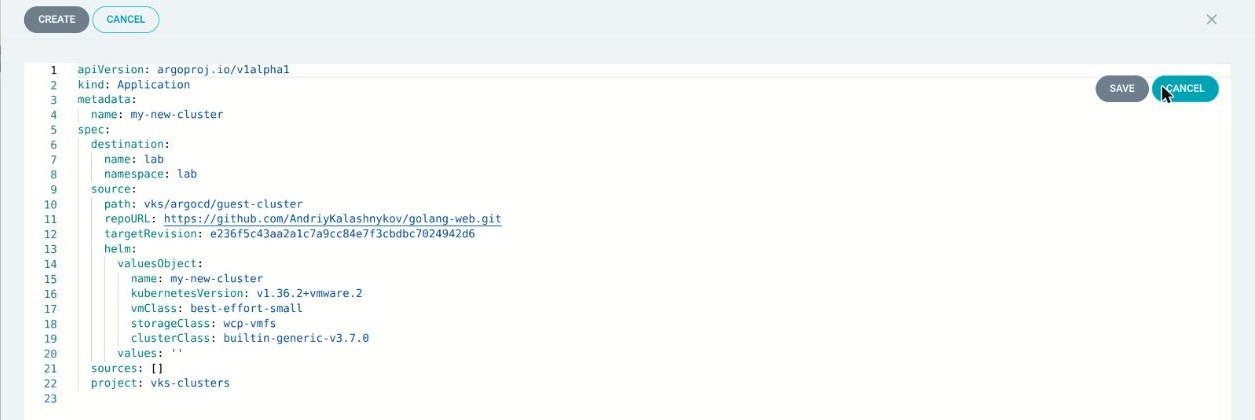
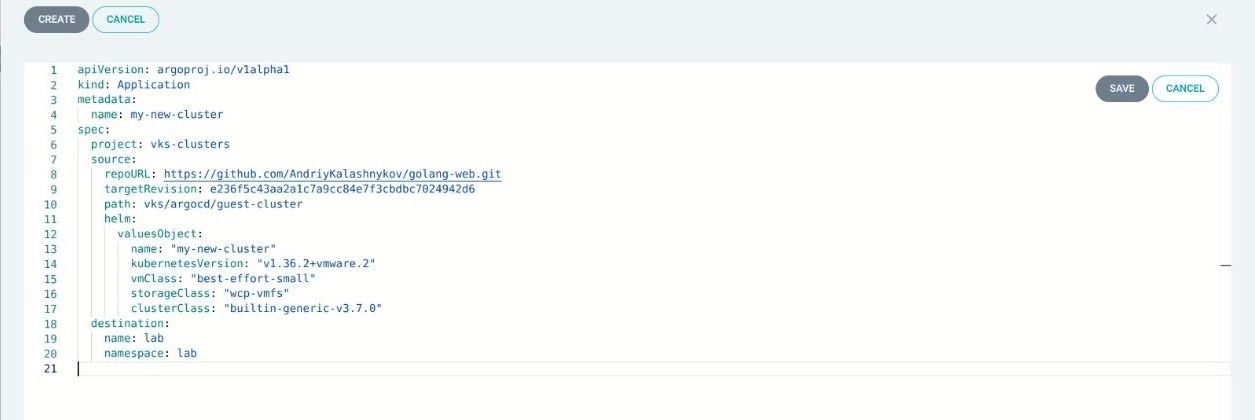
docs(vks): apply the review to the by-hand ArgoCD guide; the editor picture is from a real paste

Changed region(s): [[0.0311, 0.4952, 0.404, 0.9595], [0.0622, 0.3095, 0.404, 0.4643], [0.9012, 0.1548, 0.9944, 0.2476]]

diff --git a/vks/ARGOCD-manual.md b/vks/ARGOCD-manual.md
@@ -140,8 +140,8 @@ manifest.
 
 **If not:** a failed check in **Validate** — the message beside it says why; an error must be
 fixed, a warning can be accepted. An error right after **FINISH** — wait a minute and do this
-step again. A status that stays **Configuring** for more than 10 minutes, or shows an error — the
-Supervisor cannot reach `projects.packages.broadcom.com`: tell your administrator.
+step again. A status that stays **Configuring** for more than 10 minutes, or shows an error —
+most often the Supervisor cannot reach `projects.packages.broadcom.com`: tell your administrator.
 
 ## 4. Create the ArgoCD instance
 
@@ -210,7 +210,8 @@ of its own. Anyone who can read your screen can now log in: clear the terminal a
 1. Open `https://<the address from step 4>` in your browser. It shows a warning such as *Your
    connection is not private*.
 2. Open the certificate the page presents (in Chrome: **Not secure** in the address bar →
-   **Certificate details**) and find its **SHA-256 fingerprint**. Compare its hex digits with
+   **Certificate details**) and find the **SHA-256 fingerprint** of the **certificate** (not the
+   one of its public key). Compare its hex digits with
    the fingerprint printed above, ignoring colons, spaces and upper/lower case.
 3. Only if they are the same: go on to the page (in Chrome: **Advanced** → **Proceed to …**) and
    log in with user name `admin` and the printed password.
@@ -332,7 +333,8 @@ class with its CPU and memory; the Supervisor's storage classes.
 
 Put your choices into this terminal. Keep using **this terminal** until the end of step 8.
 
-- `NEW_CLUSTER`: a name no cluster in your namespace has. Start it with a letter.
+- `NEW_CLUSTER`: a name no cluster in your namespace has. Lower-case letters, digits and `-`;
+  start it with a letter; not one of the words `true`, `false`, `yes`, `no`, `on`, `off`, `null`.
 - `K8S_VERSION`: the `VERSION` of a release whose `READY` and `COMPATIBLE` are both `True`,
   **without its `-vkr.N` ending**: for `v1.36.2+vmware.2-vkr.3` write `v1.36.2+vmware.2`. The
   Supervisor stores it that way; with the ending ArgoCD would report a difference forever.
@@ -356,7 +358,8 @@ kubectl --kubeconfig "$SUPERVISOR_KUBECONFIG" -n "$VKS_NAMESPACE" get cluster "$
 
 **Expect:** `Error from server (NotFound): clusters.cluster.x-k8s.io "<name>" not found`.
 
-**If not:** a line describing a cluster — choose another `NEW_CLUSTER`.
+**If not:** a line describing a cluster — choose another `NEW_CLUSTER`. `resource name may not be
+empty` — the block above did not run in this terminal.
 
 ### Create the Application
 
@@ -392,11 +395,13 @@ EOF
 no empty `""`.
 
 1. In the ArgoCD page click **+ NEW APP**, then **EDIT AS YAML** (top right).
-2. Select everything in the editor, delete it, and paste the 20 lines.
+2. Click in the editor, select everything in it (Ctrl+A, or ⌘A on a Mac), delete it, and paste
+   the 20 lines.
 
-   ![The ArgoCD new application editor with the pasted YAML](img/argocd/09-argocd-new-app-yaml.jpg)
+   ![The ArgoCD new application editor holding the 20 pasted lines](img/argocd/09-argocd-new-app-yaml.jpg)
 
-3. Click **SAVE**, then **CREATE** (top left). Leave **SYNC POLICY** at **Manual**.
+3. Click **SAVE**: the page goes back to the form, now filled in. Leave **SYNC POLICY** at
+   **Manual** and click **CREATE** (top left).
 
 **Expect:** a tile named after your cluster, with status **Missing** and **OutOfSync**: ArgoCD
 knows what to create and has not created it yet.
@@ -470,8 +475,11 @@ lists two destinations: your namespace, and `<cluster>-<namespace>` at
 
 ![ArgoCD Settings, Clusters: the namespace and the new guest cluster](img/argocd/14-argocd-clusters.jpg)
 
-**If not:** `metadata.name: Required value` — this is not the terminal where you set
-`NEW_CLUSTER` in step 7: set it again and run the block again.
+**If not:** `resource name may not be empty` — this is not the terminal where you set
+`NEW_CLUSTER` in step 7: set it again and run the block again. `created`, but the cluster does
+not appear under **Settings** → **Clusters** — the name is not a cluster's:
+`kubectl --kubeconfig "$SUPERVISOR_KUBECONFIG" -n "$VKS_NAMESPACE" describe managedentity "$NEW_CLUSTER"`
+says what it is waiting for; delete it with the first block of step 9 and correct the name.
 
 The service keeps this destination's login in a secret it owns. That login is the cluster's own
 client certificate; whether the service renews it before it expires was not tested for this
@@ -492,7 +500,8 @@ source ~/.vks-golang-web.env
 kubectl --kubeconfig "$SUPERVISOR_KUBECONFIG" -n "$VKS_NAMESPACE" delete managedentity "$NEW_CLUSTER"
 ```
 
-**Expect:** `managedentity… "<name>" deleted`.
+**Expect:** `managedentity… "<name>" deleted`. `resource name may not be empty` means
+`NEW_CLUSTER` is not set in this terminal.
 
 Then, in the ArgoCD page, open the Application, click **DELETE**, type the Application's name,
 leave **Foreground** selected, and click **OK**. **Non-cascading** would remove only the
@@ -500,15 +509,20 @@ Application and leave the cluster and its virtual machines running.
 
 ![The Delete application window with the name field and the Foreground, Background and Non-cascading choices](img/argocd/15-argocd-delete.jpg)
 
-Check that the cluster is gone before you go on. Run this again until it prints nothing: a few
-minutes at most.
+Check that the cluster is gone before you go on. Run this again until both lines say `NotFound`:
+a few minutes at most.
 
 ```sh
 source ~/.vks-golang-web.env
-kubectl --kubeconfig "$SUPERVISOR_KUBECONFIG" -n "$VKS_NAMESPACE" get cluster,applications.argoproj.io
+kubectl --kubeconfig "$SUPERVISOR_KUBECONFIG" -n "$VKS_NAMESPACE" get cluster "$NEW_CLUSTER"
+kubectl --kubeconfig "$SUPERVISOR_KUBECONFIG" -n "$VKS_NAMESPACE" get applications.argoproj.io "$NEW_CLUSTER"
 ```
 
-**Expect:** `No resources found in <your namespace> namespace.`
+**Expect:** two `Error from server (NotFound): …` lines, one for the cluster and one for the
+Application.
+
+**If not:** `resource name may not be empty` — `NEW_CLUSTER` is not set in this terminal: set it
+and run the block again.
 
 ### Delete the ArgoCD instance
 

diff --git a/vks/HANDOFF.md b/vks/HANDOFF.md
@@ -52,7 +52,9 @@ in bash 5, zsh 5.9 and bash 3.2.
 
 `ARGOCD-manual.md` (19 `sh` blocks, 17 screenshots in `vks/img/argocd/`) was walked once on
 2026-10-07 in Chrome on Linux against the same lab: the service removed and installed again in
-the vSphere Client, the Application created, synced and deleted in the ArgoCD page, and each
+the vSphere Client, the Application created (once pre-filled through the page's address and synced, once by a
+simulated clipboard paste of the guide's 20 lines into the YAML editor, then SAVE and CREATE,
+not synced), synced and deleted in the ArgoCD page, and each
 `kubectl` block run in bash and zsh (the instance, role-binding, namespace and project blocks as
 second runs). Not run for it: macOS; the clean-up `kubectl` blocks as written; the browser's
 certificate viewer (step 5's wording is from Chrome's menus, the fingerprint comparison itself
